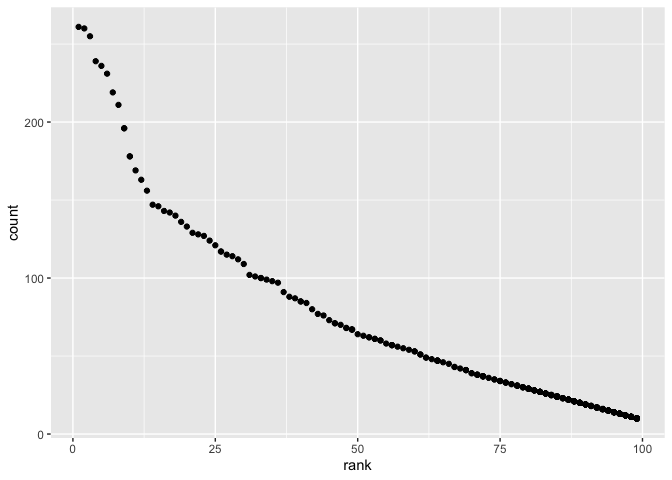
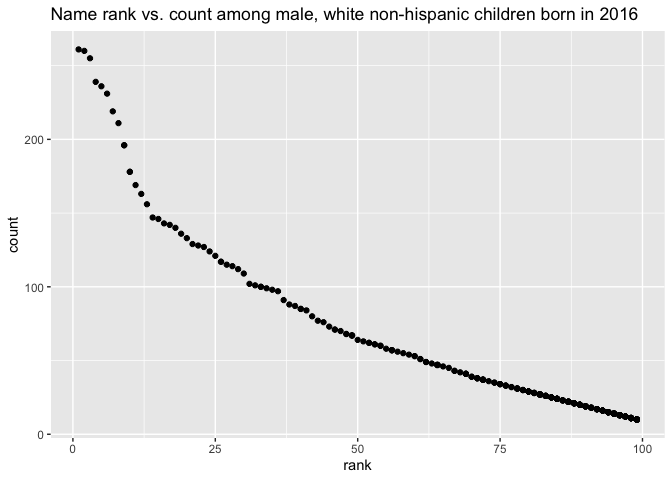
Final rmd file

diff --git a/p8105_hw2_rac2224.md b/p8105_hw2_rac2224.md
@@ -3,7 +3,7 @@ p8105\_hw2\_rac2224
 Rachel Crowley
 10/3/2019
 
-\#\#Problem 1
+## Problem 1
 
 Reading and cleaning the Mr. Trash Wheel
     dataset
@@ -12,14 +12,14 @@ Reading and cleaning the Mr. Trash Wheel
 library(tidyverse)
 ```
 
-    ## ── Attaching packages ──────────────────────────────────────── tidyverse 1.2.1.9000 ──
+    ## ── Attaching packages ────────────────────────────────────────────────────────────────────────── tidyverse 1.2.1.9000 ──
 
     ## ✔ ggplot2 3.2.1          ✔ purrr   0.3.2     
     ## ✔ tibble  2.1.3          ✔ dplyr   0.8.3     
     ## ✔ tidyr   1.0.0.9000     ✔ stringr 1.4.0     
     ## ✔ readr   1.3.1          ✔ forcats 0.4.0
 
-    ## ── Conflicts ──────────────────────────────────────────────── tidyverse_conflicts() ──
+    ## ── Conflicts ────────────────────────────────────────────────────────────────────────────────── tidyverse_conflicts() ──
     ## ✖ dplyr::filter() masks stats::filter()
     ## ✖ dplyr::lag()    masks stats::lag()
 
@@ -78,16 +78,17 @@ precip_data =
 precip_data = transform(precip_data, month = month.name)
 ```
 
-\*The number of observations in the dataset precip\_data is 24. The
-number of observations in the dataset trash\_data is 344.Within the
-dataset precip\_data, key variables include month, total, year.. Within
-the dataset trash\_data, key variables include chip\_bags,
-cigarette\_butts, date, dumpster, glass\_bottles, grocery\_bags,
-homes\_powered, month, plastic\_bottles, polystyrene, sports\_balls,
-volume\_cubic\_yards, weight\_tons, year.The total precipitation in 2018
-is 70.33. The median number of sports balls in a dumpster in 2017 is 8.
+  - The number of observations in the dataset precip\_data is 24. The
+    number of observations in the dataset trash\_data is 344.Within the
+    dataset precip\_data, key variables include month, total, year.
+    Within the dataset trash\_data, key variables include chip\_bags,
+    cigarette\_butts, date, dumpster, glass\_bottles, grocery\_bags,
+    homes\_powered, month, plastic\_bottles, polystyrene, sports\_balls,
+    volume\_cubic\_yards, weight\_tons, year.The total precipitation in
+    2018 is 70.33. The median number of sports balls in a dumpster in
+    2017 is 8.
 
-\#\#Problem 2
+## Problem 2
 
 Cleaning data in FiveThirtyEight
 
@@ -113,7 +114,7 @@ polsmonth_data=read_csv(file = "./data/pols-month.csv")
 ``` r
 polsmonth_data = janitor::clean_names(polsmonth_data)
 polsmonth_data = separate(polsmonth_data, 
-                          mon, into=c("year", "month","day"))
+  mon, into=c("year", "month","day"))
 polsmonth_data = mutate(polsmonth_data, month=month.name[as.integer(month)]) 
 polsmonth_data = mutate(polsmonth_data, president = prez_gop + prez_dem) %>%
   select( -prez_gop, -prez_dem, -day)  
@@ -134,7 +135,7 @@ snp_data=read_csv(file = "./data/snp.csv")
 ``` r
 snp_data = janitor::clean_names(snp_data)
 snp_data = separate(snp_data, 
-                          date, into=c("month", "day","year"))
+  date, into=c("month", "day","year"))
 snp_data = mutate(snp_data, month=month.name[as.integer(month)]) %>%
   select(-day) 
 snp_data = select(snp_data, year, month, everything())
@@ -179,7 +180,7 @@ Merging snp, employment, and pols datasets
 
 ``` r
 unemployment_data <- unemployment_data %>%  
-    mutate(year = as.character(year))
+  mutate(year = as.character(year))
 polsnp_data =
   left_join(polsmonth_data, snp_data)
 ```
@@ -193,30 +194,31 @@ merged_data =
 
     ## Joining, by = c("year", "month")
 
-\*The polsmonth dataset has the following range of years: a minimum year
-of 1947 and a maximum year of 2015. The dimensions of the polsmonth
-dataset are 822, 9. In terms of key variables, within the dataset
-polsmonth the following key variables were present: gov\_dem, gov\_gop,
-month, president, rep\_dem, rep\_gop, sen\_dem, sen\_gop, year.
+  - The polsmonth dataset has the following range of years: a minimum
+    year of 1947 and a maximum year of 2015. The dimensions of the
+    polsmonth dataset are 822, 9. In terms of key variables, within the
+    dataset polsmonth the following key variables were present:
+    gov\_dem, gov\_gop, month, president, rep\_dem, rep\_gop, sen\_dem,
+    sen\_gop, year.
 
-\*The snp dataset has the following range of years: a minimum year of
-1950 and a maximum year of 2015. The dimensions of the snp dataset are
-787, 3. The following key variables were present within the snp dataset:
-close, month, year.
+  - The snp dataset has the following range of years: a minimum year of
+    1950 and a maximum year of 2015. The dimensions of the snp dataset
+    are 787, 3. The following key variables were present within the snp
+    dataset: close, month, year.
 
-\*The unemployment dataset has the following range of years: a minimum
-year of 1948 and a maximum year of 2015.The dimensions of the
-unemployment dataset are 816, 3. The following key variables were
-present within the unemployment dataset: month, unemployment, year.
+  - The unemployment dataset has the following range of years: a minimum
+    year of 1948 and a maximum year of 2015.The dimensions of the
+    unemployment dataset are 816, 3. The following key variables were
+    present within the unemployment dataset: month, unemployment, year.
 
-\*The resulting dataset, merged\_data, has the following range of years:
-a minimum year of 1947 to a maximum year of 2015. The dimensions of the
-resulting dataset, merged\_data, are 822, 11. The following key
-variables were present within the resulting dataset, merged\_data:
-close, gov\_dem, gov\_gop, month, president, rep\_dem, rep\_gop,
-sen\_dem, sen\_gop, unemployment, year.
+  - The resulting dataset, merged\_data, has the following range of
+    years: a minimum year of 1947 to a maximum year of 2015. The
+    dimensions of the resulting dataset, merged\_data, are 822, 11. The
+    following key variables were present within the resulting dataset,
+    merged\_data: close, gov\_dem, gov\_gop, month, president, rep\_dem,
+    rep\_gop, sen\_dem, sen\_gop, unemployment, year.
 
-\#\#Problem 3
+## Problem 3
 
 Cleaning Popular Baby Names dataset
 
@@ -249,7 +251,7 @@ time
 ``` r
 olivia_data =  babynames_data[which(babynames_data$childs_first_name=='Olivia'), 1:6]
 olivia_data = head(arrange(olivia_data, year_of_birth), 24) %>%
-    select(-gender, -count, -childs_first_name) 
+  select(-gender, -count, -childs_first_name) 
 olivia_data = 
   pivot_wider(
   olivia_data, 
@@ -297,7 +299,7 @@ Scatter plot for male, white non-hispanic children born in
 ``` r
 whitemale_data= babynames_data[which(babynames_data$gender=='MALE' & babynames_data$year_of_birth=="2016" & babynames_data$ethnicity=="WHITE NON HISP"), 1:6]
 whitemale_plot = ggplot(whitemale_data, aes(x = rank, y = count)) +
-  geom_point()
+  geom_point() + ggtitle("Name rank vs. count among male, white non-hispanic children born in 2016")
 print(whitemale_plot)
 ```
 
